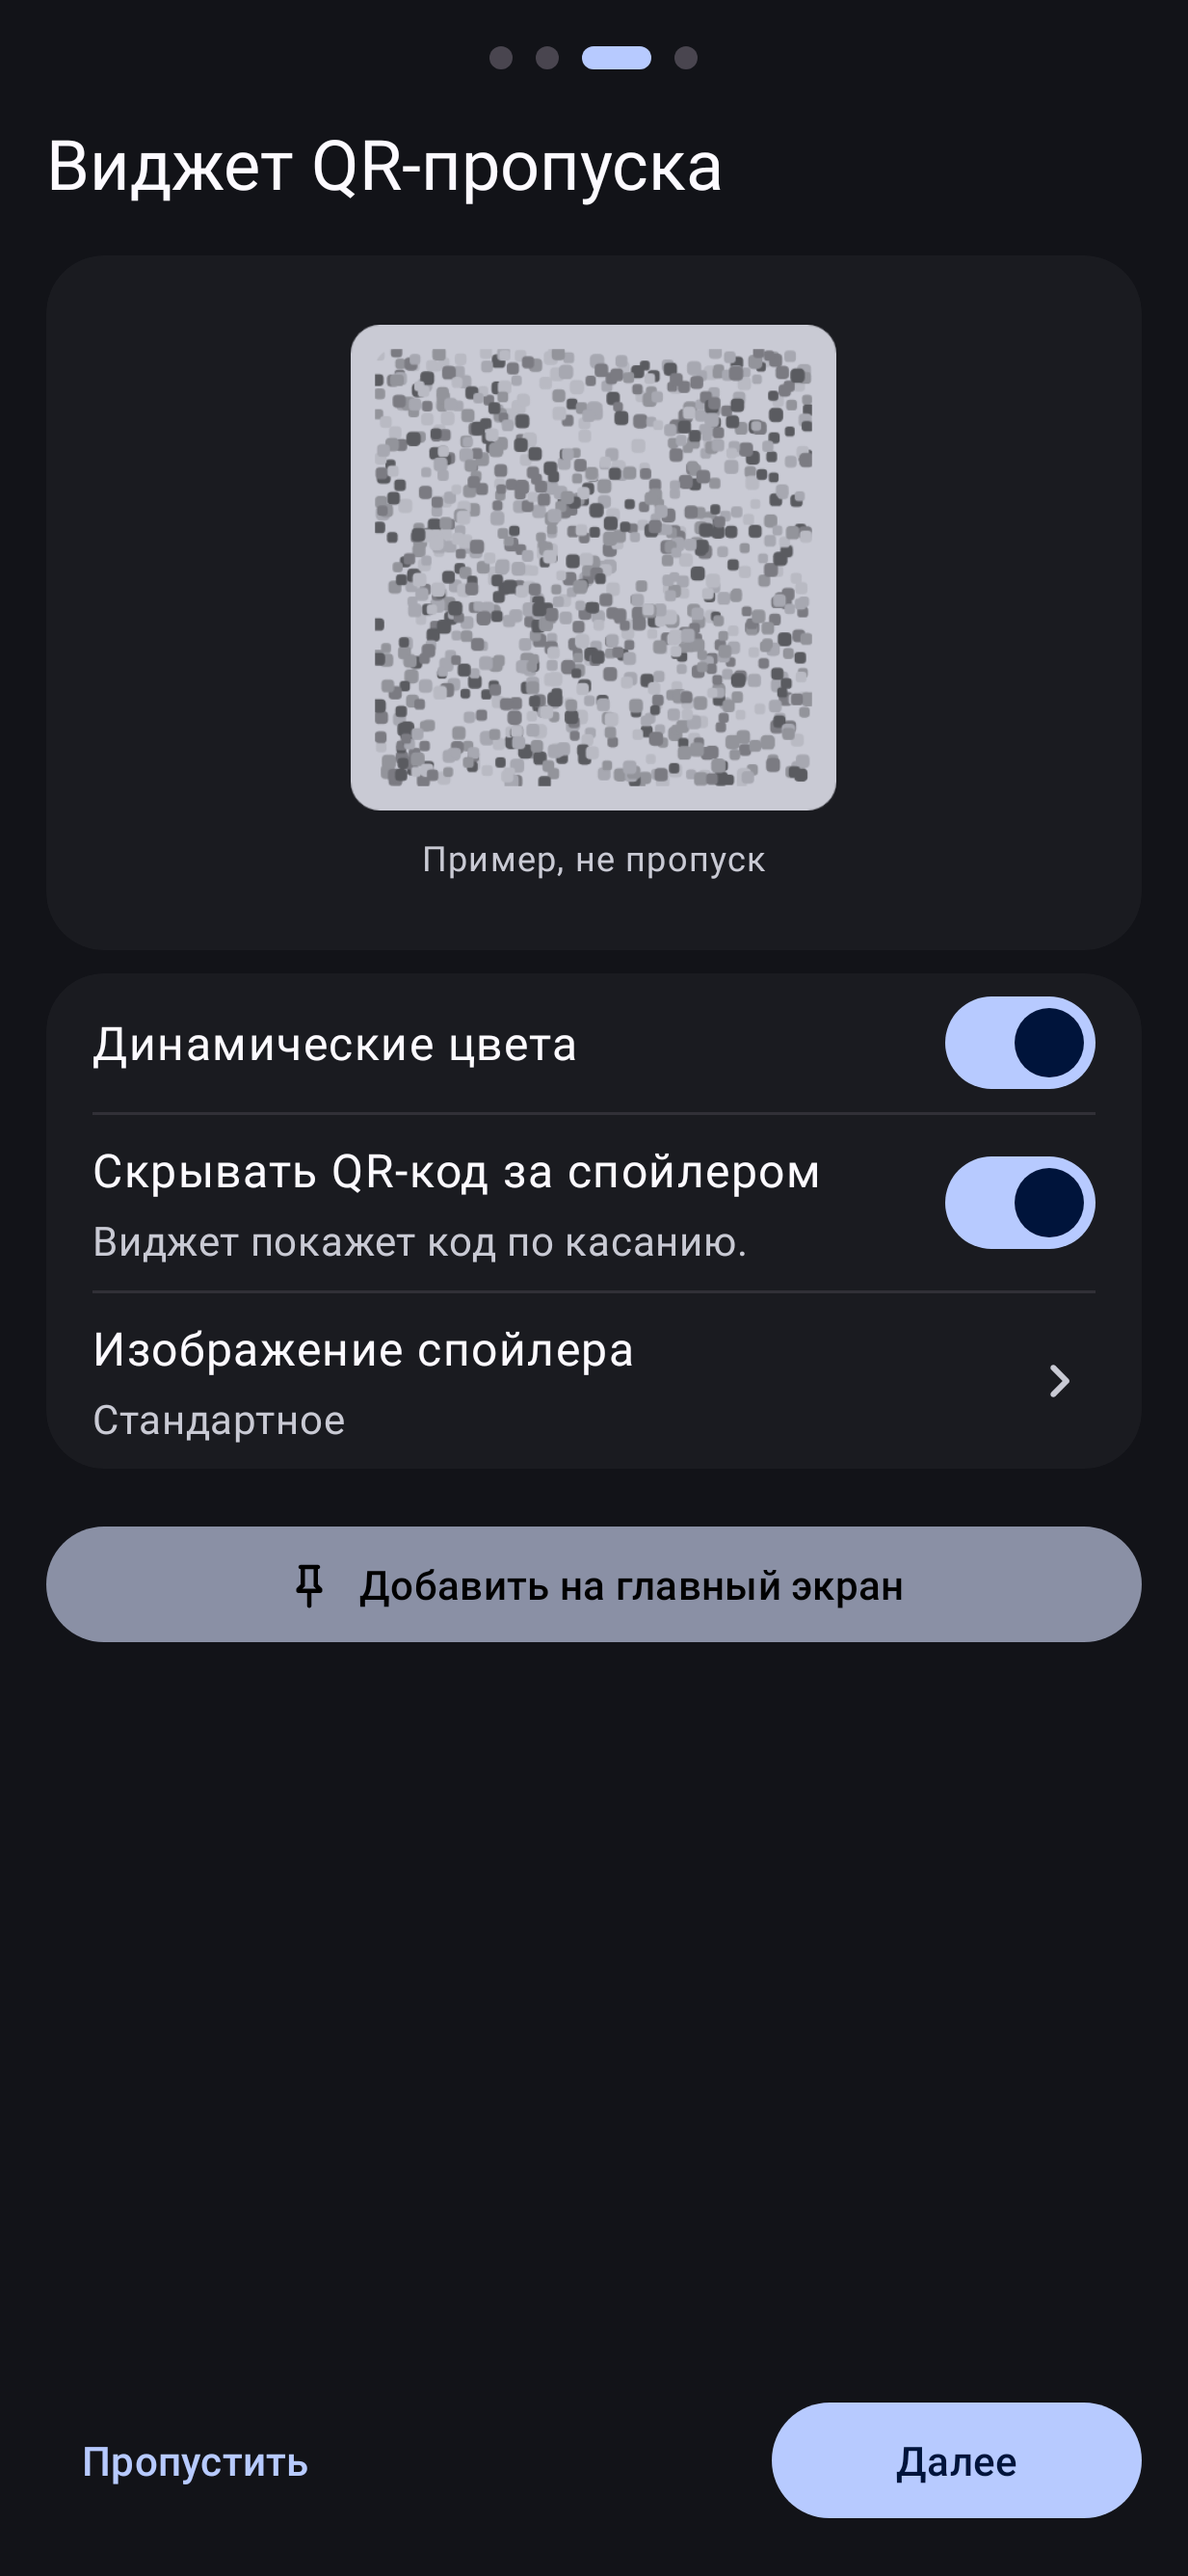
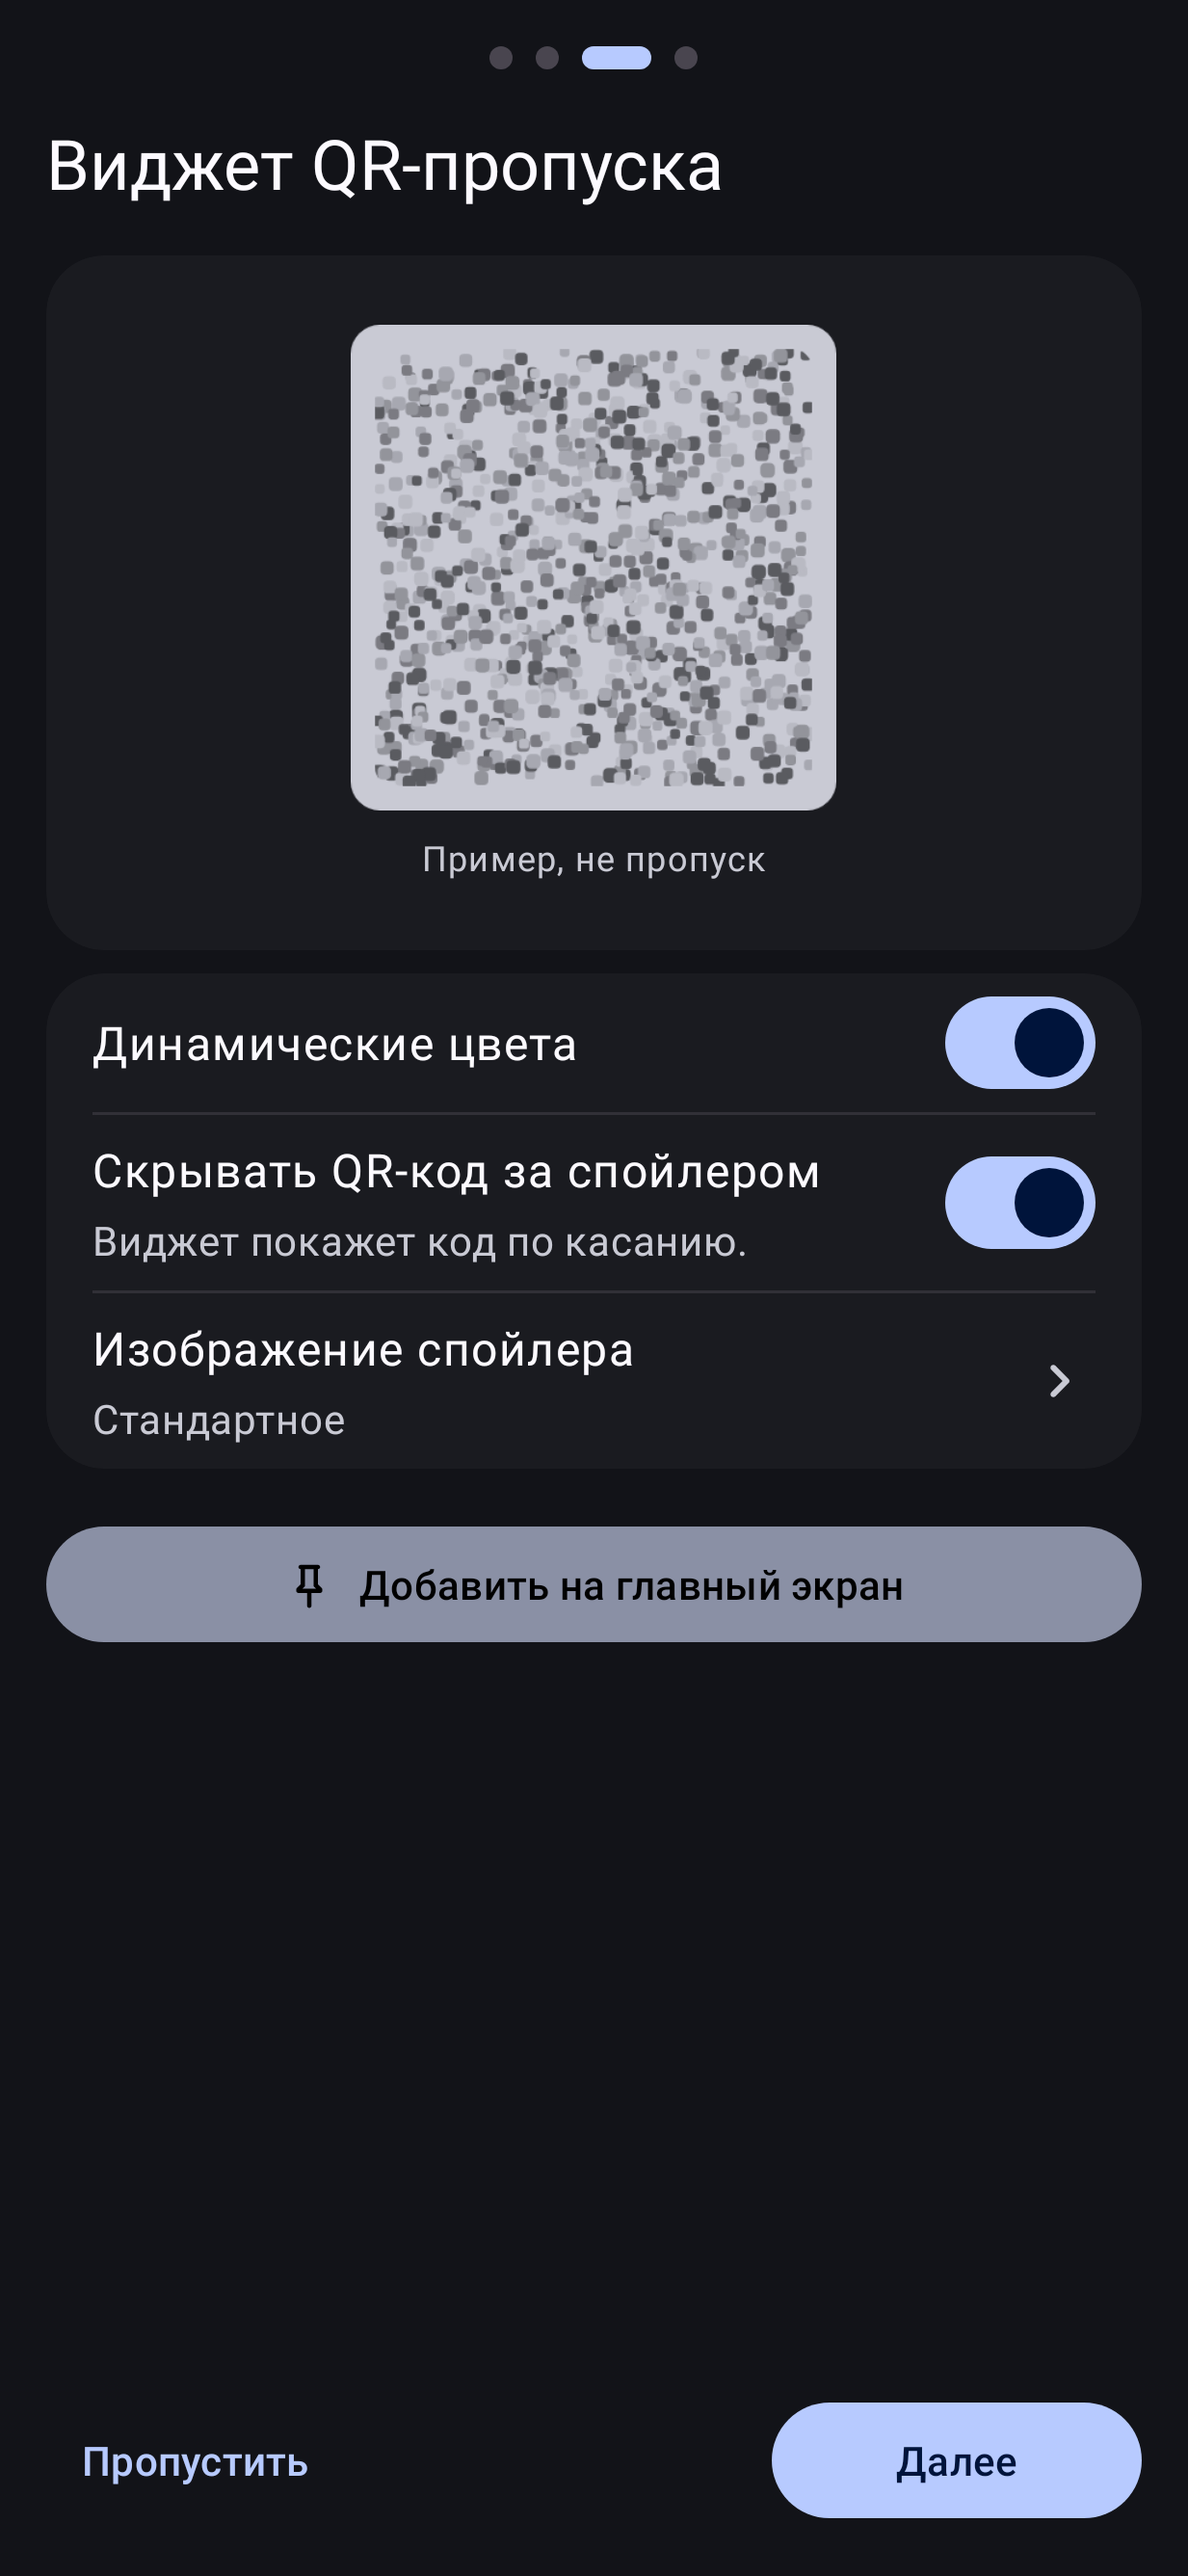
LX-1c: Fix the wall clock of the onboarding references so the QR spoiler noise no longer changes every hour

Changed region(s): [[0.3082, 0.1242, 0.7088, 0.3105]]

diff --git a/app/src/test/java/dev/alllexey/itmowidgets/feature/onboarding/reference/OnboardingReferenceScreenshotTest.kt b/app/src/test/java/dev/alllexey/itmowidgets/feature/onboarding/reference/OnboardingReferenceScreenshotTest.kt
@@ -1,5 +1,6 @@
 package dev.alllexey.itmowidgets.feature.onboarding.reference
 
+import android.content.Context
 import android.os.Bundle
 import androidx.fragment.app.Fragment
 import androidx.fragment.app.FragmentManager
@@ -7,8 +8,14 @@ import androidx.lifecycle.SavedStateHandle
 import androidx.lifecycle.ViewModel
 import androidx.lifecycle.ViewModelProvider
 import androidx.viewpager2.widget.ViewPager2
+import dagger.Module
+import dagger.Provides
+import dagger.hilt.InstallIn
+import dagger.hilt.android.qualifiers.ApplicationContext
 import dagger.hilt.android.testing.HiltAndroidTest
 import dagger.hilt.android.testing.HiltTestApplication
+import dagger.hilt.android.testing.UninstallModules
+import dagger.hilt.components.SingletonComponent
 import dev.alllexey.itmowidgets.R
 import dev.alllexey.itmowidgets.core.services.CustomServicesRepository
 import dev.alllexey.itmowidgets.core.settings.WidgetAppearance
@@ -16,15 +23,27 @@ import dev.alllexey.itmowidgets.core.settings.WidgetAppearanceRepository
 import dev.alllexey.itmowidgets.core.settings.WidgetTextSize
 import dev.alllexey.itmowidgets.core.testing.FakeCustomSpoilerRepository
 import dev.alllexey.itmowidgets.core.testing.FakeOnboardingRepository
+import dev.alllexey.itmowidgets.core.time.AcademicClock
+import dev.alllexey.itmowidgets.core.time.AcademicTimeOverrideController
+import dev.alllexey.itmowidgets.core.time.AcademicTimeOverrideStore
+import dev.alllexey.itmowidgets.core.time.AcademicTimeProvider
+import dev.alllexey.itmowidgets.core.time.DefaultAcademicTimeProvider
+import dev.alllexey.itmowidgets.core.time.WallClock
 import dev.alllexey.itmowidgets.designsystem.AppScreenshotRule
 import dev.alllexey.itmowidgets.designsystem.ReferenceHostActivity
 import dev.alllexey.itmowidgets.designsystem.XmlReferenceCapture
+import dev.alllexey.itmowidgets.di.TimeModule
 import dev.alllexey.itmowidgets.feature.onboarding.presentation.OnboardingStep
 import dev.alllexey.itmowidgets.feature.onboarding.presentation.OnboardingViewModel
 import dev.alllexey.itmowidgets.feature.onboarding.ui.OnboardingFragment
+import java.time.Instant
+import java.time.ZoneOffset
+import javax.inject.Singleton
+import kotlin.time.Clock
 import kotlinx.coroutines.CompletableDeferred
 import kotlinx.coroutines.flow.MutableStateFlow
 import kotlinx.coroutines.flow.flowOf
+import kotlinx.datetime.TimeZone
 import org.junit.Rule
 import org.junit.Test
 import org.junit.runner.RunWith
@@ -34,9 +53,11 @@ import org.robolectric.annotation.Config
 /**
  * Today's first-run flow under the names of LA-4a's `OnboardingScreen` previews, in
  * `shared/feature-account/screenshots/`: the steps of `OnboardingVisualTest` on in-memory preferences, the opt-in
- * and the spoiler image, as `SettingsNavigationTestActivity` hosts them; no backend, no stored preferences.
+ * and the spoiler image, as `SettingsNavigationTestActivity` hosts them; no backend, no stored preferences. The wall
+ * clock is fixed ([FixedWallClock]): the QR spoiler's noise is seeded by the hour.
  */
 @HiltAndroidTest
+@UninstallModules(TimeModule::class)
 @RunWith(RobolectricTestRunner::class)
 @Config(application = HiltTestApplication::class)
 class OnboardingReferenceScreenshotTest {
@@ -164,6 +185,44 @@ class OnboardingReferenceScreenshotTest {
         override suspend fun setQrSpoilerEnabled(enabled: Boolean) = Unit
     }
 
+    /** [TimeModule] with the wall clock at the epoch, so the spoiler noise of the QR step is the same at any hour. */
+    @Module
+    @InstallIn(SingletonComponent::class)
+    object FixedWallClock {
+        @Provides
+        @Singleton
+        fun clock(): Clock = TimeModule.provideClock()
+
+        @Provides
+        @Singleton
+        fun zone(): TimeZone = TimeModule.provideAcademicTimeZone()
+
+        @Provides
+        @Singleton
+        @AcademicClock
+        fun academicClock(zone: TimeZone): java.time.Clock = TimeModule.provideAcademicClock(zone)
+
+        @Provides
+        @Singleton
+        @WallClock
+        fun wallClock(): java.time.Clock = java.time.Clock.fixed(Instant.EPOCH, ZoneOffset.UTC)
+
+        @Provides
+        @Singleton
+        fun overrideStore(@ApplicationContext context: Context): AcademicTimeOverrideStore =
+            TimeModule.provideAcademicTimeOverrideStore(context)
+
+        @Provides
+        @Singleton
+        fun defaultProvider(clock: Clock, zone: TimeZone, store: AcademicTimeOverrideStore): DefaultAcademicTimeProvider =
+            TimeModule.provideDefaultAcademicTimeProvider(clock, zone, store)
+
+        @Provides
+        fun provider(provider: DefaultAcademicTimeProvider): AcademicTimeProvider = provider
+
+        @Provides
+        fun overrideController(provider: DefaultAcademicTimeProvider): AcademicTimeOverrideController = provider
+    }
 }
 
 /** Hands [fragment] the view model [create] makes before Hilt could create one. */
